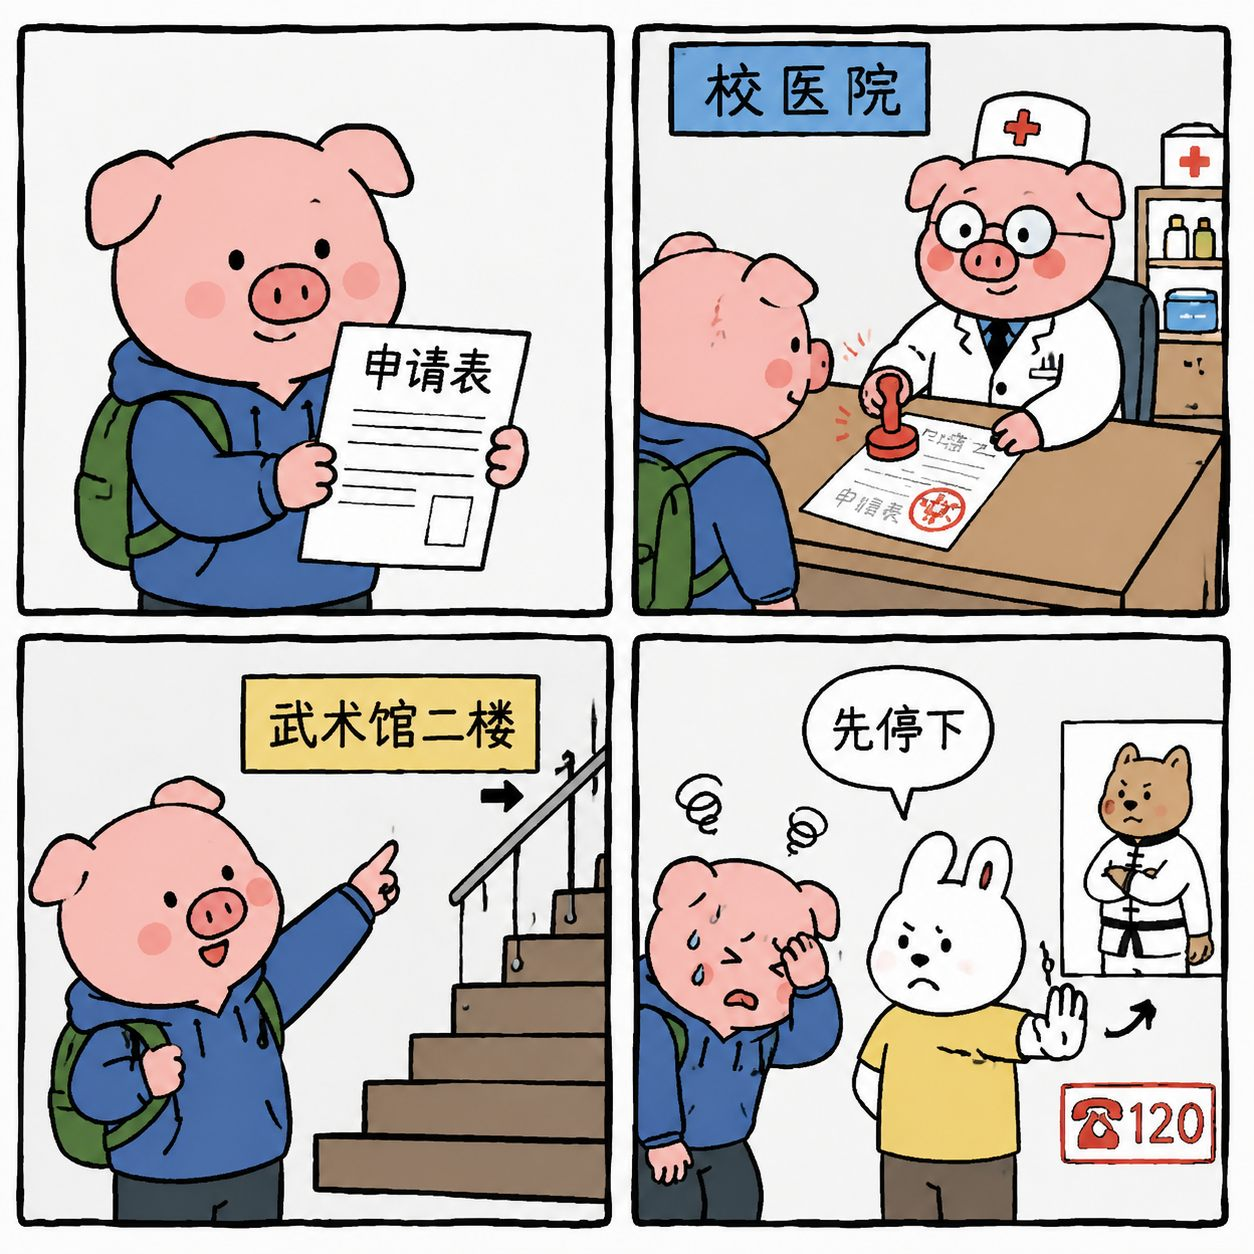
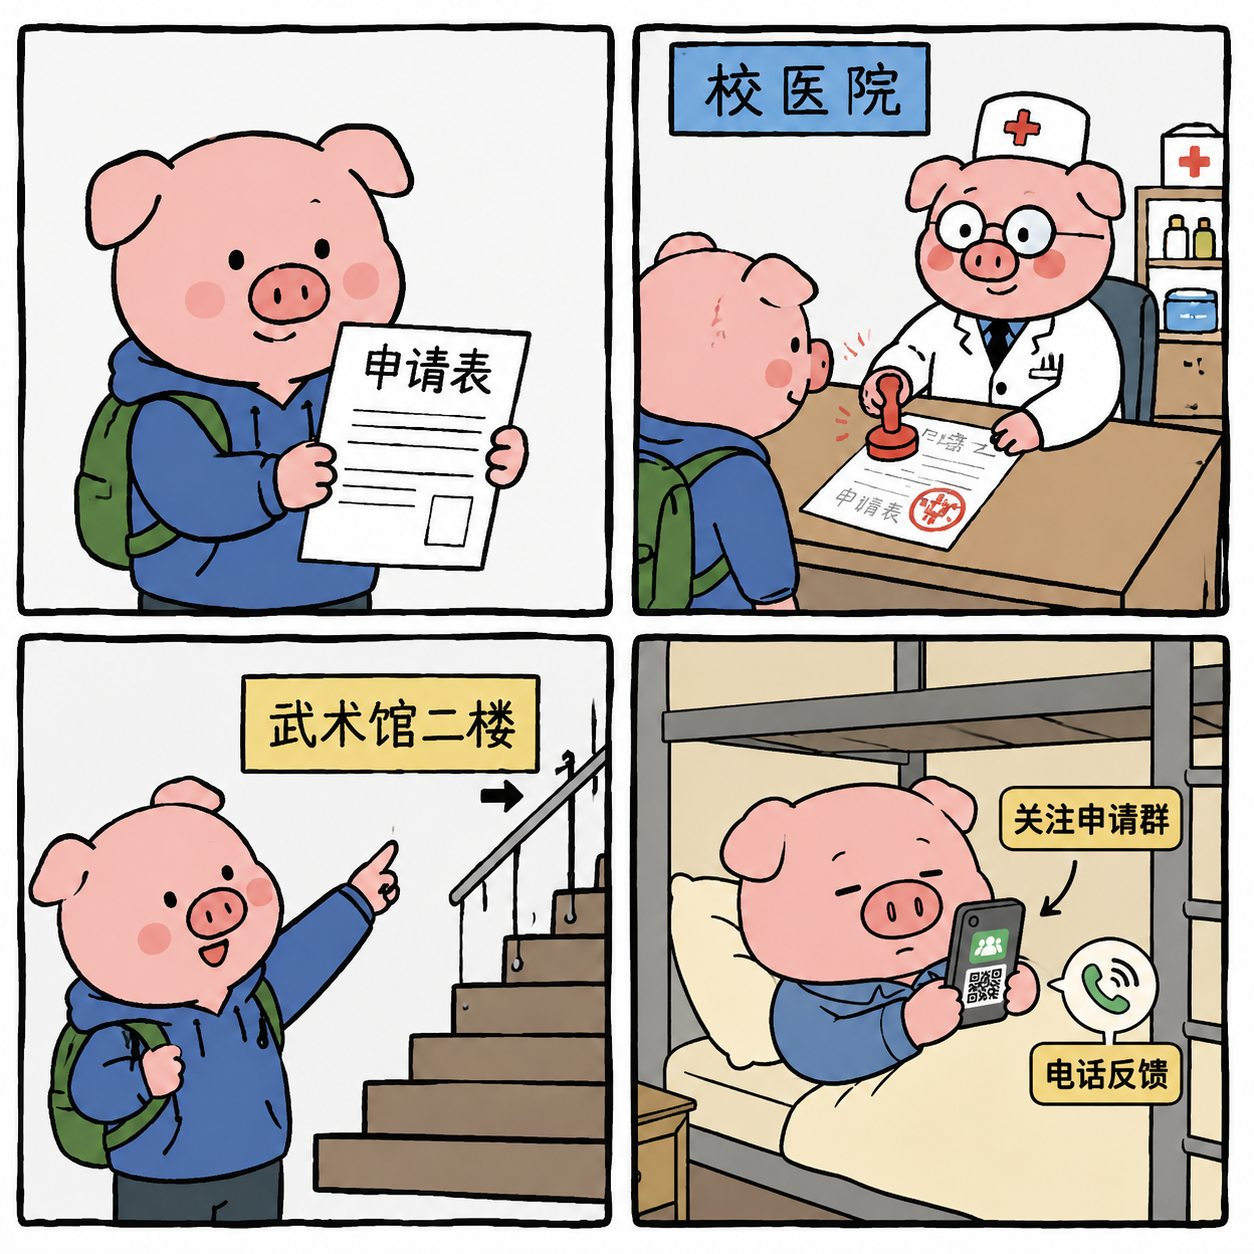
Update application flow fourth comic panel

diff --git a/index.html b/index.html
@@ -56,7 +56,7 @@
         <section class="section-block semester-preview">
           <div class="section-heading"><h2>本学期先看</h2></div>
           <div class="campus-comic" aria-label="本学期体育办事申请流程漫画">
-            <img src="assets/generated/pig-application-flow-rough_gpt-image-2.jpg" alt="原创粗线条四格校园体育漫画：申请表、校医院、武术馆二楼、运动不适求助" fetchpriority="high" decoding="async">
+            <img src="assets/generated/pig-application-flow-rough_gpt-image-2.jpg" alt="原创粗线条四格校园体育漫画：申请表、校医院、武术馆二楼、关注申请群和电话反馈" fetchpriority="high" decoding="async">
             <div class="comic-caption">申请流程</div>
             <div class="comic-steps">
               <div><b>1</b><span>先看通知<br>准备申请表</span></div>
